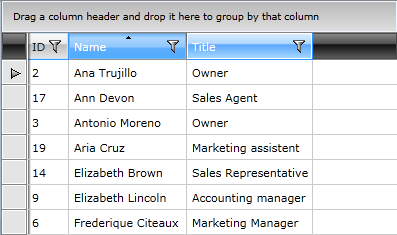
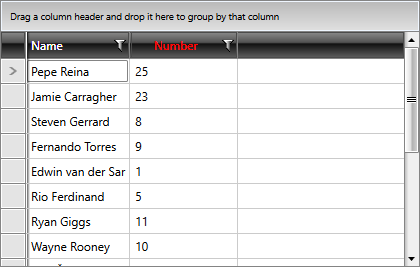
Refactor Styling Column Headers article

diff --git a/controls/radgridview/styles-and-templates/styling-column-headers.md b/controls/radgridview/styles-and-templates/styling-column-headers.md
@@ -34,35 +34,51 @@ You have two options:
 
 >To learn how to modify the default GridViewHeaderCell style, please refer to the [Modifying Default Styles]({%slug gridview-modifying-default-styles%}) article.
 
+The style in **Example 1** will style all the column headers in your application.
+
 #### __[XAML] Example 1: Styling all header cells of an application__
 
-	{{region xaml-gridview-styling-headercell_0}}
-	<Style TargetType="telerik:GridViewHeaderCell">
-	    <Setter Property="VerticalContentAlignment" Value="Top"/>
-	    <Setter Property="HorizontalContentAlignment" Value="Center"/>
-	</Style>
+{{region xaml-gridview-styling-headercell_0}}
+	<Application.Resources>
+		<Style TargetType="telerik:GridViewHeaderCell">
+			<Setter Property="Foreground" Value="Red"/>
+			<Setter Property="HorizontalContentAlignment" Value="Center"/>
+		</Style>
+	</Application.Resources>
 {{endregion}}
 
->If you're using [Implicit Styles]({%slug styling-apperance-implicit-styles-overview%}), you should base your style on the __GridViewHeaderCellStyle__.
+>If you're using [Implicit Styles]({%slug styling-apperance-implicit-styles-overview%}), you need to base your style on the __GridViewHeaderCellStyle__.
 
 ## Setting a Column's HeaderCellStyle
 
 __RadGridView__ header cells can also be styled by creating an appropriate __Style__ for the **GridViewHeaderCell** element and setting it as the __HeaderCellStyle__ property of the respective __GridView Column__. 
 
+The style from **Example 2** will only be applied to the **Number** column as we've set its HeaderCellStyle property.
+
 #### __[XAML] Example 2: Setting a column's HeaderCellStyle__
 
-	{{region xaml-gridview-styling-headercell_1}}
-	<telerik:GridViewDataColumn Header="ID"
-	             DataMemberBinding="{Binding EmployeeID}"
-	             HeaderCellStyle="{StaticResource GridViewHeaderCellStyle}" />
+{{region xaml-gridview-styling-headercell_1}}
+    <Grid>
+        <Grid.Resources>
+            <Style x:Key="CustomGridViewHeaderCellStyle" TargetType="telerik:GridViewHeaderCell" BasedOn="{StaticResource GridViewHeaderCellStyle}">
+                <Setter Property="Foreground" Value="Red"/>
+                <Setter Property="HorizontalContentAlignment" Value="Center"/>
+            </Style>
+        </Grid.Resources>
+        <telerik:RadGridView ItemsSource="{Binding Players}" AutoGenerateColumns="False">
+            <telerik:RadGridView.Columns>
+                <telerik:GridViewDataColumn DataMemberBinding="{Binding Name}" />
+                <telerik:GridViewDataColumn DataMemberBinding="{Binding Number}" HeaderCellStyle="{StaticResource CustomGridViewHeaderCellStyle}" />
+            </telerik:RadGridView.Columns>
+        </telerik:RadGridView>
+    </Grid>
 {{endregion}}
 
-#### __Figure 2: RadGridView with styled header cells__
+#### __Figure 2: RadGridView with styled header cell__
 
-![Telerik {{ site.framework_name }} DataGrid Styles and Templates Styling GridViewHeaderCell 03](images/RadGridView_Styles_and_Templates_Styling_GridViewHeaderCell_03.png)
+![Telerik {{ site.framework_name }} DataGrid Styles and Templates Styling GridViewHeaderCell](images/RadGridView_Styles_and_Templates_Styling_GridViewHeaderCell_03.png)
 
 ## See Also
 
- * [Styling a Cell]({%slug gridview-styling-cell%})
-
- * [Styling the Column Footers]({%slug gridview-styling-column-footers%})
+* [Styling a Cell]({%slug gridview-styling-cell%})
+* [Styling the Column Footers]({%slug gridview-styling-column-footers%})
